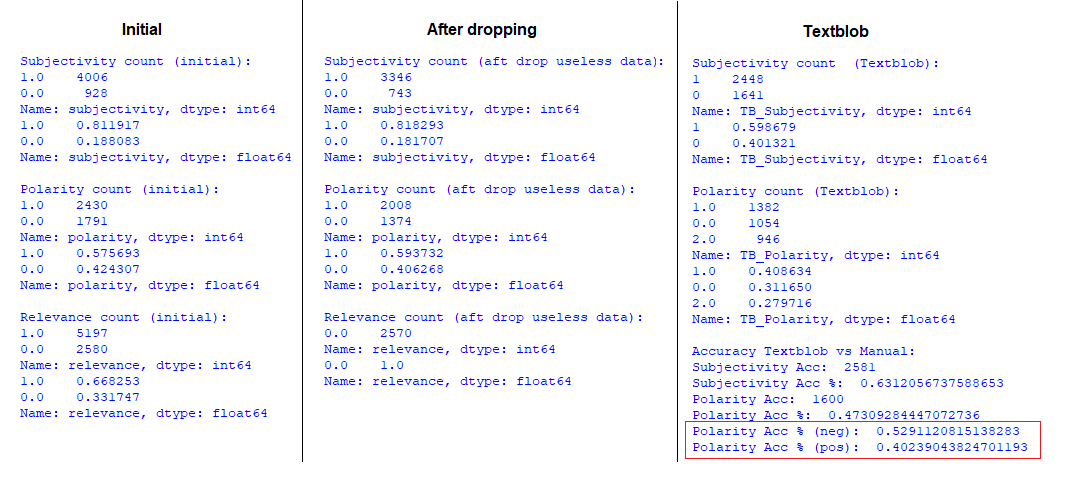
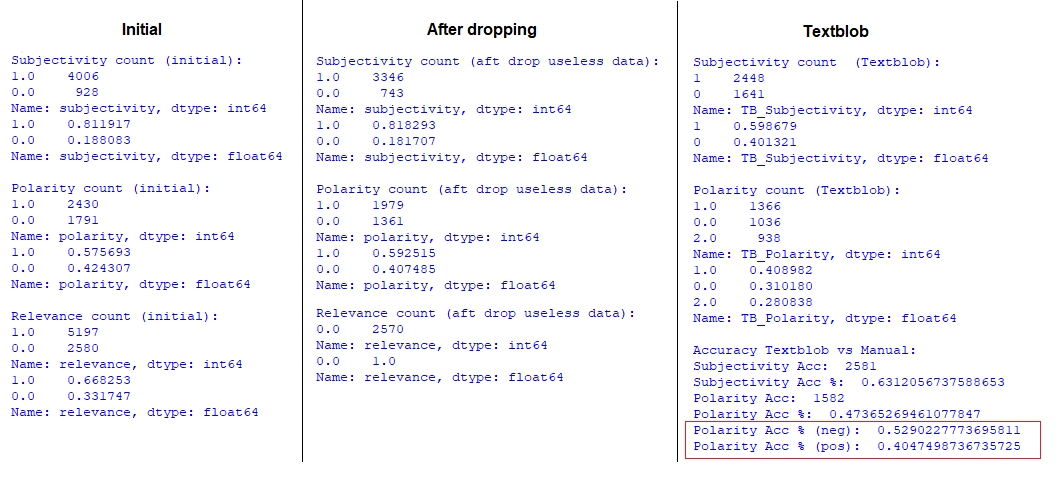
Update textblob folder

diff --git a/classification/textblob/textblob_model.py b/classification/textblob/textblob_model.py
@@ -30,9 +30,12 @@ print("Subjectivity count (aft drop useless data):")
 print(df_drop_useless["subjectivity"].value_counts())
 print(df_drop_useless["subjectivity"].value_counts(normalize=True), "\n")
 
+df_drop_subj = df_drop_useless[df_drop_useless['subjectivity']==1]
+df_drop_subj = df_drop_subj[(df_drop_subj['polarity']==0)|(df_drop_subj['polarity']==1)]
+
 print("Polarity count (aft drop useless data):")
-print(df_drop_useless["polarity"].value_counts())
-print(df_drop_useless["polarity"].value_counts(normalize=True), "\n")
+print(df_drop_subj["polarity"].value_counts())
+print(df_drop_subj["polarity"].value_counts(normalize=True), "\n")
 
 print("Relevance count (aft drop useless data):")
 print(df_drop_useless["relevance"].value_counts())
@@ -52,12 +55,12 @@ def sentiment_analysis(data):
             return 1 #‘Subjective’
 
     #Create a function to get the polarity
-    def getPolarity(polarity, text):
-        if  polarity == 1 or polarity == 0:
+    def getPolarity(subj, pol, text):
+        if subj == 1 and (pol == 1 or pol == 0):
             return TextBlob(text).sentiment.polarity
 
-    def getPolAnalysis(polarity, score):
-       if polarity == 1 or polarity == 0:
+    def getPolAnalysis(subj, pol, score):
+       if subj == 1 and (pol == 1 or pol == 0):
             if score <= 0:
                 return 0 #‘Negative’
             elif score > 0.3:
@@ -68,8 +71,8 @@ def sentiment_analysis(data):
     data['TB_Subj_Score'] = data['body'].apply(getSubjectivity)
     data['TB_Subjectivity'] = data['TB_Subj_Score'].apply(getSubjAnalysis)
 
-    data['TB_Pol_Score'] = data.apply(lambda x: getPolarity(x['polarity'], x['body']), axis=1)
-    data['TB_Polarity'] = data.apply(lambda x: getPolAnalysis(x['polarity'], x['TB_Pol_Score']), axis=1)
+    data['TB_Pol_Score'] = data.apply(lambda x: getPolarity(x['subjectivity'], x['polarity'], x['body']), axis=1)
+    data['TB_Polarity'] = data.apply(lambda x: getPolAnalysis(x['subjectivity'], x['polarity'], x['TB_Pol_Score']), axis=1)
 
     return data
 
@@ -92,7 +95,7 @@ print("Subjectivity Acc: ", accuracy_score(df_TB_labelled["subjectivity"],
 print("Subjectivity Acc %: ", accuracy_score(df_TB_labelled["subjectivity"],
                                              df_TB_labelled["TB_Subjectivity"]))
 
-df_temp = df_TB_labelled[(df_TB_labelled['polarity']==0)|(df_TB_labelled['polarity']==1)]
+df_temp = df_TB_labelled[(df_TB_labelled['subjectivity']==1) & ((df['polarity']==0) | (df['polarity']==1))]
 
 print("Polarity Acc: ", accuracy_score(df_temp["polarity"],
                                        df_temp["TB_Polarity"],
@@ -100,8 +103,8 @@ print("Polarity Acc: ", accuracy_score(df_temp["polarity"],
 print("Polarity Acc %: ", accuracy_score(df_temp["polarity"],
                                          df_temp["TB_Polarity"]))
 
-df_temp_1 = df_TB_labelled[df_TB_labelled['polarity']==0]
-df_temp_2 = df_TB_labelled[df_TB_labelled['polarity']==1]
+df_temp_1 = df_TB_labelled[(df_TB_labelled['polarity']==0) & (df_TB_labelled['subjectivity']==1)]
+df_temp_2 = df_TB_labelled[(df_TB_labelled['polarity']==1) & (df_TB_labelled['subjectivity']==1)]
 df_temp_2["polarity"].replace(1, 2, inplace=True)
 
 print("Polarity Acc % (neg): ", accuracy_score(df_temp_1["polarity"],
